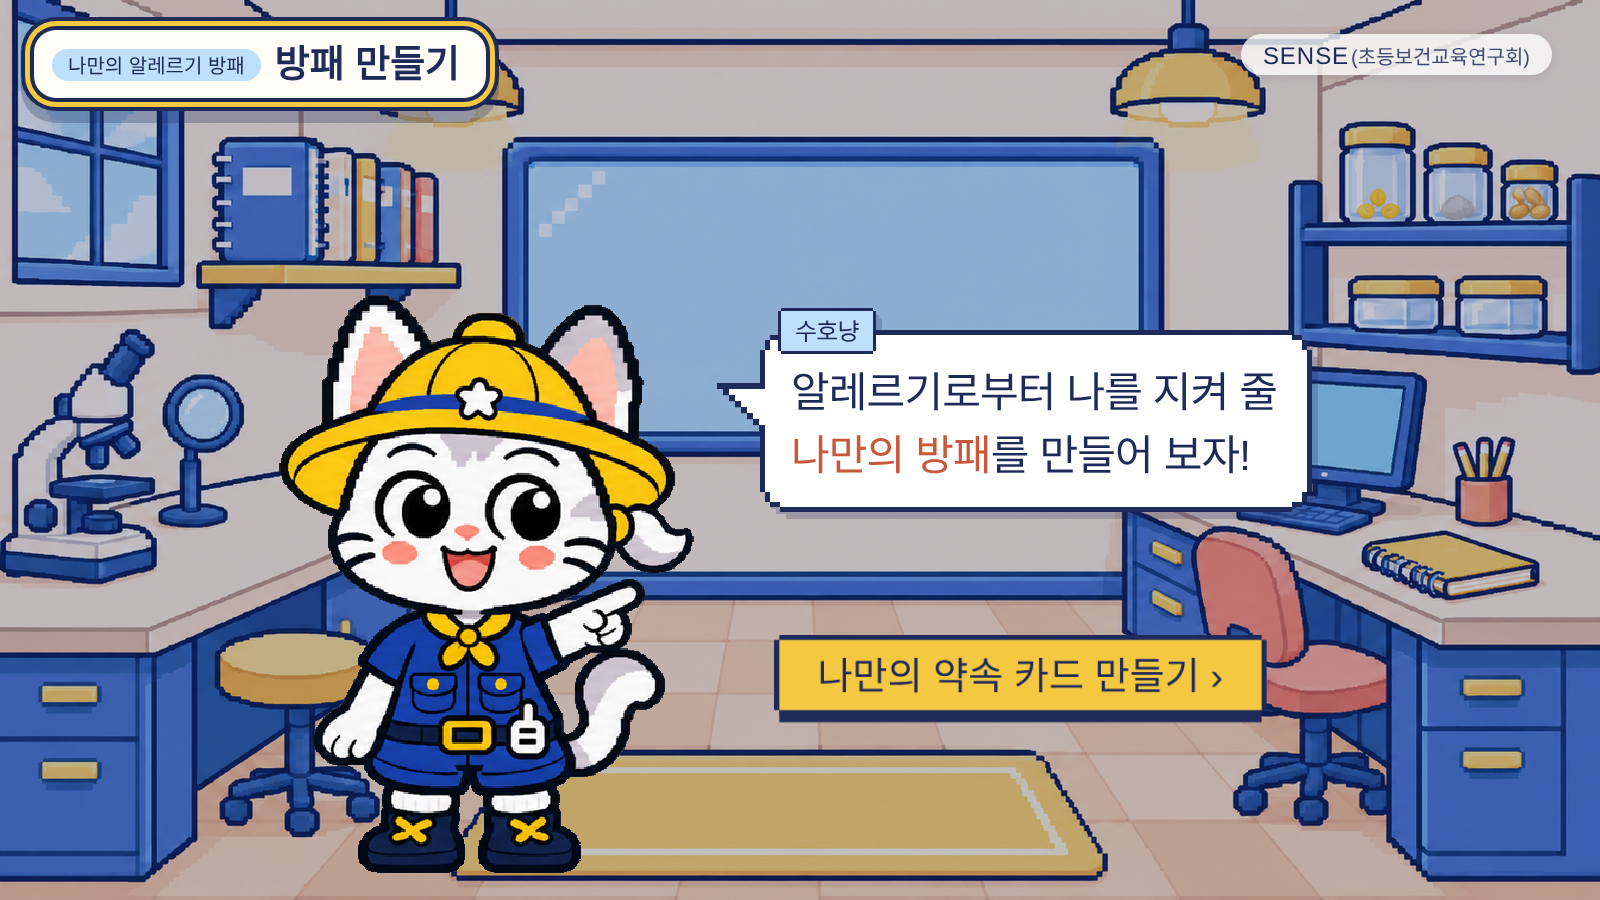
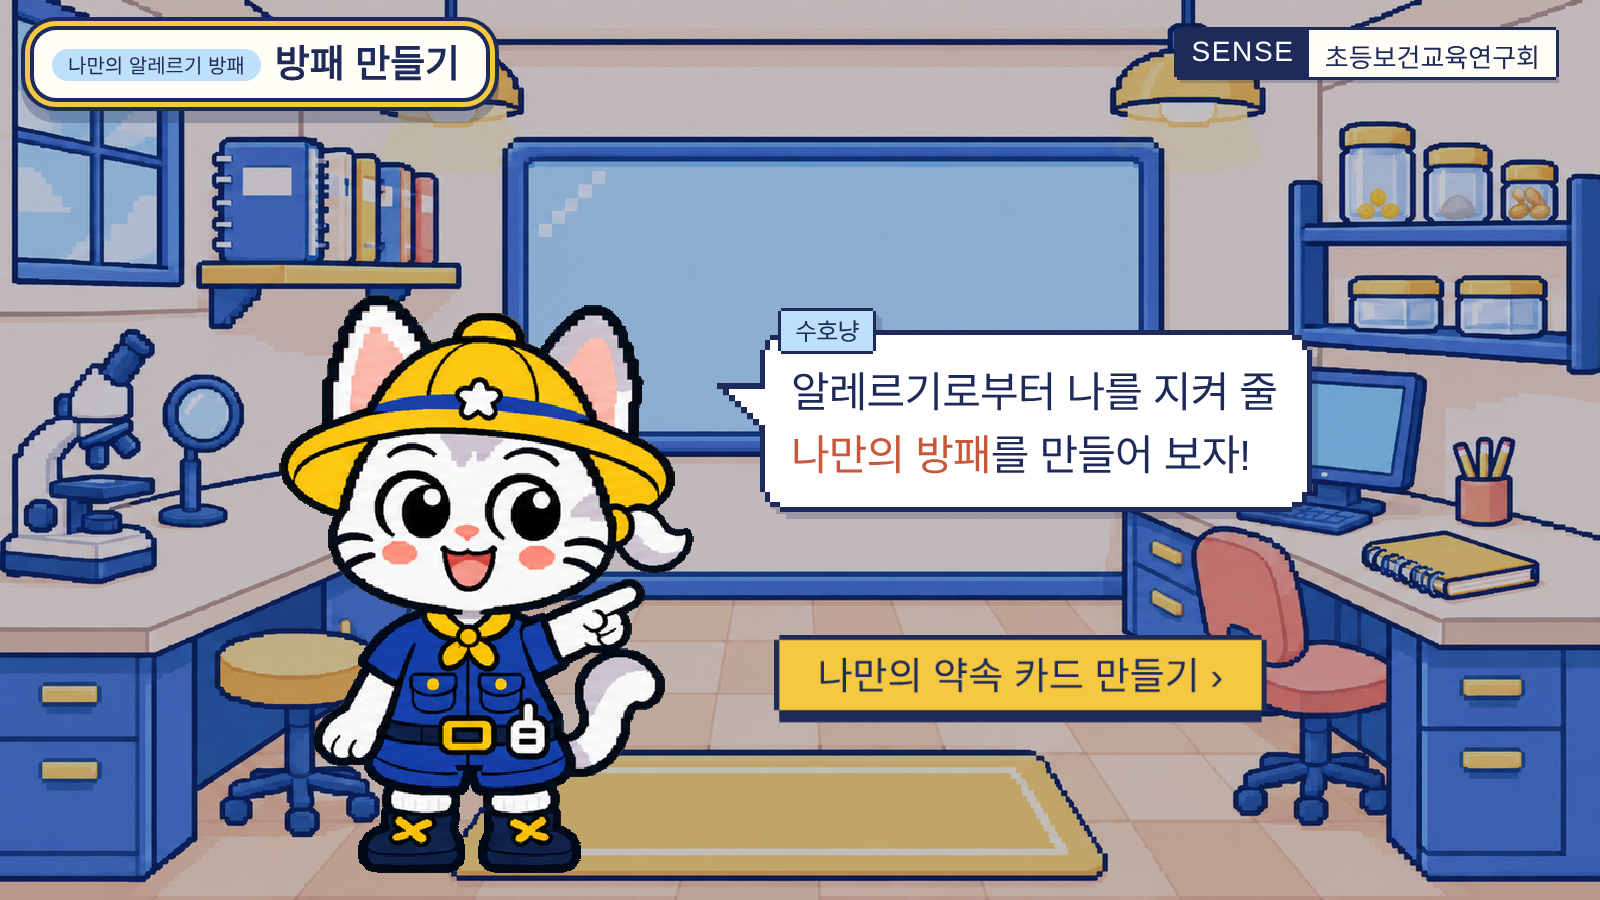
연구회 이름표를 픽셀 스타일(SENSE 남색 | 초등보건교육연구회 크림)로, 두 첫 화면 모두 오른쪽 위
Claude-Session: https://claude.ai/code/session_013gDdTYJTFtJbqVVU26WXWd

Changed region(s): [[0.7188, 0.0311, 1.0, 0.0933]]

diff --git a/css/lab.css b/css/lab.css
@@ -68,8 +68,11 @@ b.lc { color:var(--coral-d); font-weight:400; font-family:var(--font-head); }
 .lab-sign > div { position:relative; }
 .lab-sign .px-tag { position:absolute; left:-10px; top:-44px; font-size:30px; }
 .lab-sign b { font-family:var(--font-head); font-weight:400; font-size:96px; color:var(--navy); text-shadow:0 5px 0 rgba(30,42,90,.16); white-space:nowrap; }
-.lab-org { position:absolute; left:48px; top:34px; z-index:3; pointer-events:none; background:rgba(255,255,255,.78); color:var(--navy); border-radius:999px; box-shadow:0 2px 10px rgba(30,42,90,.12); padding:7px 22px 5px; font-family:var(--font-head); font-size:24px; letter-spacing:.04em; white-space:nowrap; }
-.lab-org small { font-size:20px; letter-spacing:0; margin-left:2px; opacity:.85; }
+/* 연구회 이름표 (11/11) — 세 도구 공통 모양: 오른쪽 위, 픽셀 테두리, [SENSE 남색 | 연구회 이름 크림] · 누르지 않음 */
+.lab-org { position:absolute; right:44px; top:30px; z-index:3; pointer-events:none; display:flex; align-items:stretch; font-family:var(--font-head); white-space:nowrap;
+  box-shadow:0 -3px 0 var(--navy),0 3px 0 var(--navy),-3px 0 0 var(--navy),3px 0 0 var(--navy),3px 6px 0 rgba(30,42,90,.22); }
+.lab-org b { font-weight:400; background:var(--navy); color:#fff; font-size:28px; letter-spacing:.06em; padding:6px 14px 3px; }
+.lab-org span { background:#FFFDF5; color:var(--navy); font-size:26px; padding:7px 16px 3px; }
 .lab-sign b em { font-style:normal; color:var(--coral-d); }
 
 /* ---------- S05 ---------- */

diff --git a/js/app.js b/js/app.js
@@ -16,7 +16,7 @@ Router.screens.S39 = (app) => {
   const b = labBoard(app, LAB.bg.lab, { dim: 'cream', cls: 'lab-s39' });
   labPanel(b, { sub: '나만의 알레르기 방패', title: '방패 만들기' });
   labChar(b, 'staff_guide', 600, { left: 70, bottom: 10 });
-  if (Config.isEvent()) labEl(b, 'lab-org', null, 'SENSE<small>(초등보건교육연구회)</small>', 'div', 'left:auto;right:48px');   // 왼쪽 위는 제목판이라 오른쪽 위 · 행사용 첫 화면에도 연구회 이름 (11/11)
+  if (Config.isEvent()) labEl(b, 'lab-org', null, '<b>SENSE</b><span>초등보건교육연구회</span>');   // 행사용 첫 화면에도 연구회 이름 (11/11)
   const bub = labBubble(b, { x: 760, y: 330, w: 720, fs: 42, tail: 'l', name: '수호냥', staff: true });   // 수호냥 몸 가운데 높이에 맞춤 (11/10)
   bub.say('알레르기로부터 나를 지켜 줄<br>{{나만의 방패}}를 만들어 보자!');
   const start = labBtn(b, '나만의 약속 카드 만들기 ›', 'left:780px;top:640px;font-size:38px', 'y beat');

diff --git a/js/lab.js b/js/lab.js
@@ -129,7 +129,7 @@ const labGo = (to, p = {}, o = {}) => Router.go(to, p, o);
 Router.screens.S00 = (app) => {
   const b = labBoard(app, LAB.bg.entrance, { cls: 'lab-s00' });
   labEl(b, 'lab-sign', [378, 222, 842, 172], `<div><span class="px-tag">냥박사의</span><b><em>알레르기</em> 연구소</b></div>`);
-  labEl(b, 'lab-org', null, 'SENSE<small>(초등보건교육연구회)</small>');   // 연구회 이름 (11/11)
+  labEl(b, 'lab-org', null, '<b>SENSE</b><span>초등보건교육연구회</span>');   // 연구회 이름 (11/11)
   labChar(b, 'nyang_welcome', 560, { left: -40, bottom: 22 });
   labChar(b, 'staff_hello', 530, { right: -20, bottom: 22 });   // 머리·모자가 커서 냥박사의 약 0.95배로 맞춰요 (11/9)
   const go = labBtn(b, '입장하기 ›', 'left:50%;bottom:64px;transform:translateX(-50%);font-size:52px;padding:20px 64px 16px', 'y shine beat');

diff --git a/sw.js b/sw.js
@@ -1,7 +1,7 @@
 /* 서비스 워커 — 화면 파일을 저장해 두어 인터넷이 끊겨도 앱이 열려요.
    ※ 파일을 고쳐서 다시 올릴 때는 아래 VERSION 숫자를 하나 올려 주세요. (예: v1 → v2)
    ※ 학생 기록은 여기 저장되지 않아요 (기록은 각 기기의 LocalStorage에만). */
-const VERSION = 'v140-org';
+const VERSION = 'v141-org';
 const CACHE = 'allergy-shield-' + VERSION;
 const FILES = [
   './',
